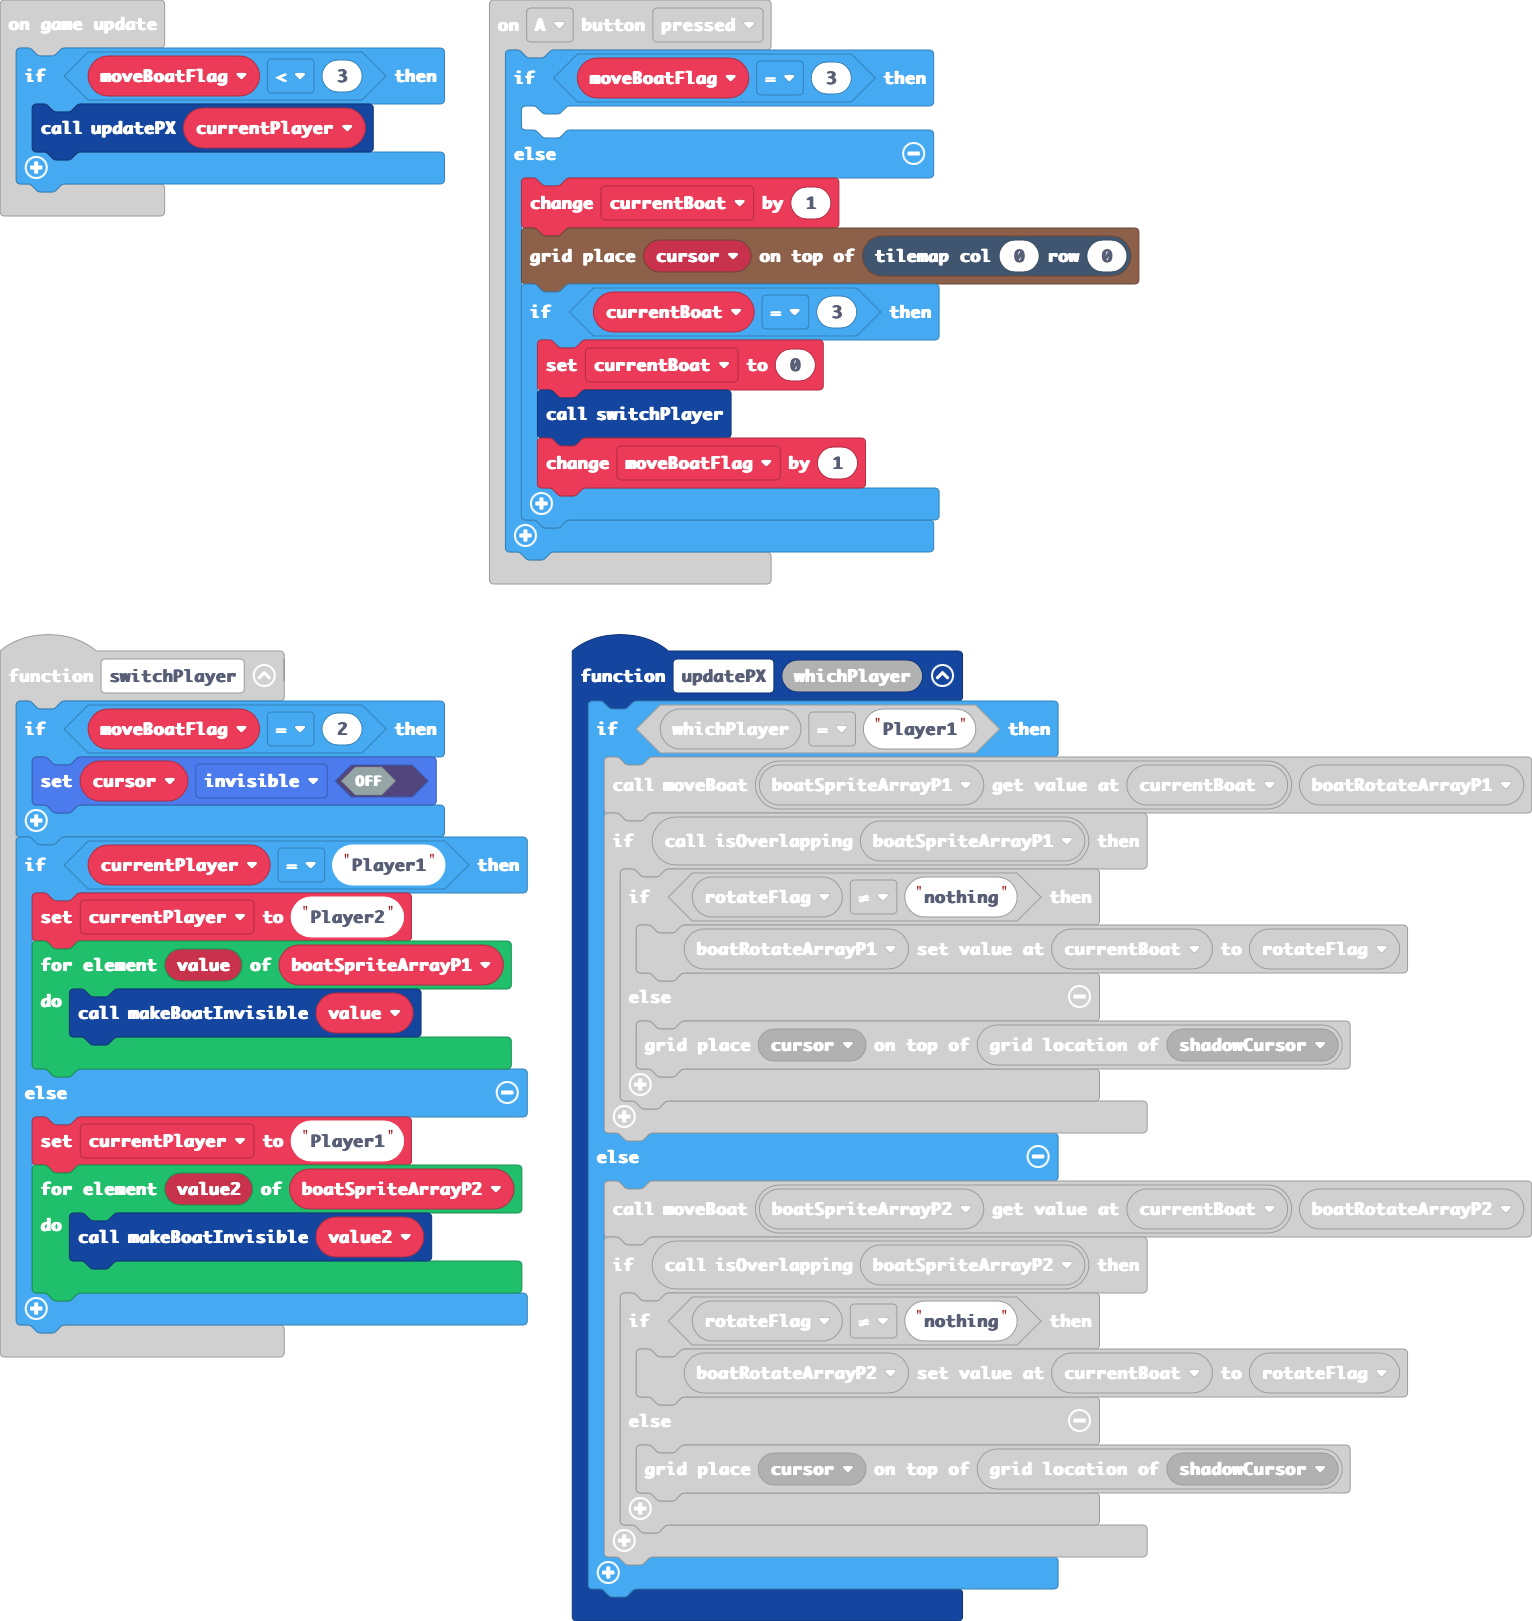
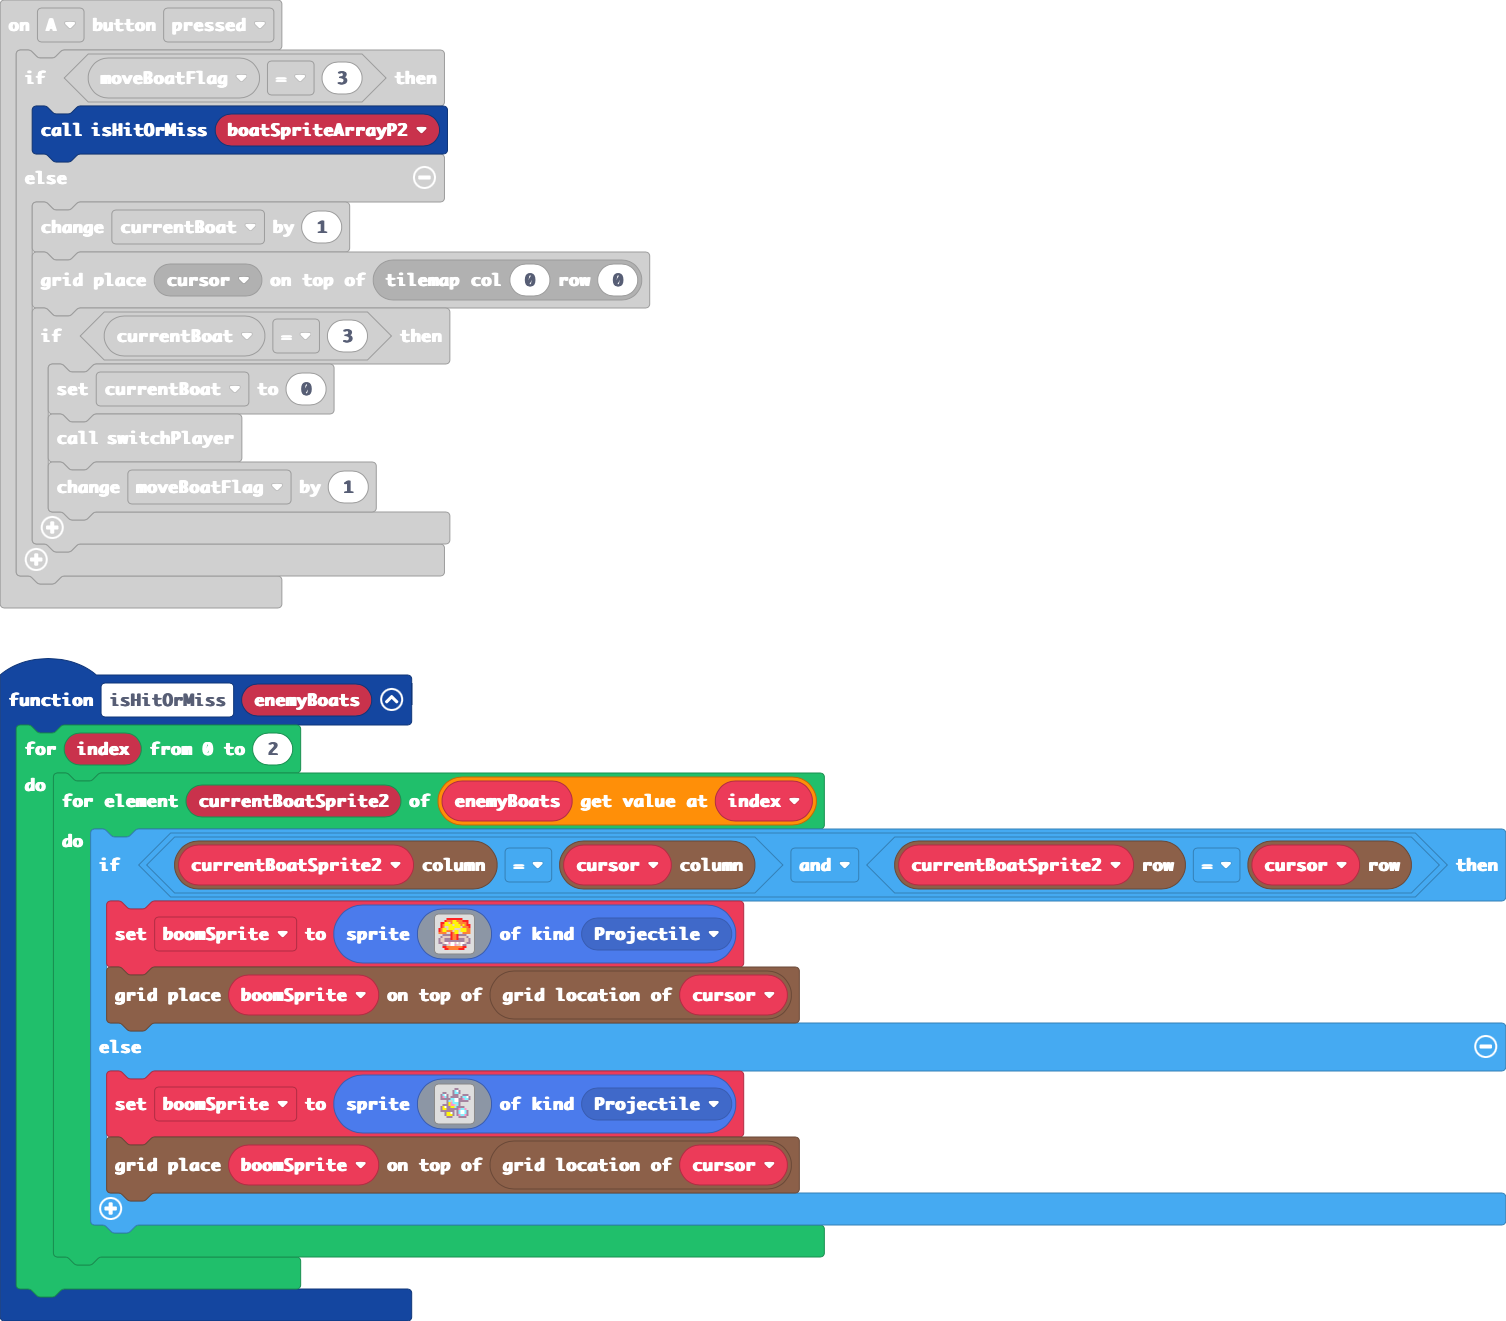
working on explosion

diff --git a/main.ts b/main.ts
@@ -48,7 +48,7 @@ function makeBoatVisible (boatArray: Sprite[]) {
 }
 controller.A.onEvent(ControllerButtonEvent.Pressed, function () {
     if (moveBoatFlag == 3) {
-    	
+        isHitOrMiss(boatSpriteArrayP2)
     } else {
         currentBoat += 1
         grid.place(cursor, tiles.getTileLocation(0, 0))
@@ -110,6 +110,53 @@ function moveBoat (boatArray: any[], boatRotateArray: string[]) {
             grid.place(currentBoatSprite, tiles.getTileLocation(grid.spriteCol(cursor) + iterator, grid.spriteRow(cursor)))
         }
         iterator += 1
+    }
+}
+function isHitOrMiss (enemyBoats: Sprite[][]) {
+    for (let index = 0; index <= 2; index++) {
+        for (let currentBoatSprite2 of enemyBoats[index]) {
+            if (grid.spriteCol(currentBoatSprite2) == grid.spriteCol(cursor) && grid.spriteRow(currentBoatSprite2) == grid.spriteRow(cursor)) {
+                boomSprite = sprites.create(img`
+                    . . . . 2 2 2 2 2 2 2 2 . . . . 
+                    . . . 2 4 4 4 5 5 4 4 4 2 2 2 . 
+                    . 2 2 5 5 d 4 5 5 5 4 4 4 4 2 . 
+                    . 2 4 5 5 5 5 d 5 5 5 4 5 4 2 2 
+                    . 2 4 d d 5 5 5 5 5 5 d 4 4 4 2 
+                    2 4 5 5 d 5 5 5 d d d 5 5 5 4 4 
+                    2 4 5 5 4 4 4 d 5 5 d 5 5 5 4 4 
+                    4 4 4 4 . . 2 4 5 5 . . 4 4 4 4 
+                    . . b b b b 2 4 4 2 b b b b . . 
+                    . b d d d d 2 4 4 2 d d d d b . 
+                    b d d b b b 2 4 4 2 b b b d d b 
+                    b d d b b b b b b b b b b d d b 
+                    b b d 1 1 3 1 1 d 1 d 1 1 d b b 
+                    . . b b d d 1 1 3 d d 1 b b . . 
+                    . . 2 2 4 4 4 4 4 4 4 4 2 2 . . 
+                    . . . 2 2 4 4 4 4 4 2 2 2 . . . 
+                    `, SpriteKind.Projectile)
+                grid.place(boomSprite, grid.getLocation(cursor))
+            } else {
+                boomSprite = sprites.create(img`
+                    . . . . . . . . b b . . . . . . 
+                    . . . . . . . b 9 1 b . . . . . 
+                    . . b b . . . b 9 9 b . . . . . 
+                    . b 9 1 b . . b b b . . b b b . 
+                    . b 3 9 b . b b b b . b 9 9 1 b 
+                    . b b b b b 9 9 1 1 b b 3 9 9 b 
+                    . . . . b 9 d 9 1 1 b b b b b . 
+                    . . . . b 5 3 9 9 9 b . . . . . 
+                    . . b b b 5 3 3 d 9 b . . . . . 
+                    . b 5 1 b b 5 5 9 b b b b . . . 
+                    . b 5 5 b b b b b b 3 9 9 3 . . 
+                    . b b b b b b b . b 9 1 1 9 b . 
+                    . . . b 5 5 1 b . b 9 1 1 9 b . 
+                    . . . b 5 5 5 b . b 3 9 9 3 b . 
+                    . . . . b b b . . . b b b b . . 
+                    . . . . . . . . . . . . . . . . 
+                    `, SpriteKind.Projectile)
+                grid.place(boomSprite, grid.getLocation(cursor))
+            }
+        }
     }
 }
 controller.down.onEvent(ControllerButtonEvent.Pressed, function () {
@@ -306,6 +353,7 @@ function isOverlapping (boatSpriteArrayPX: Sprite[][]) {
     }
     return 0
 }
+let boomSprite: Sprite = null
 let iterator = 0
 let boatRotateArrayP2: string[] = []
 let boatSpriteArrayP2: Sprite[][] = []
